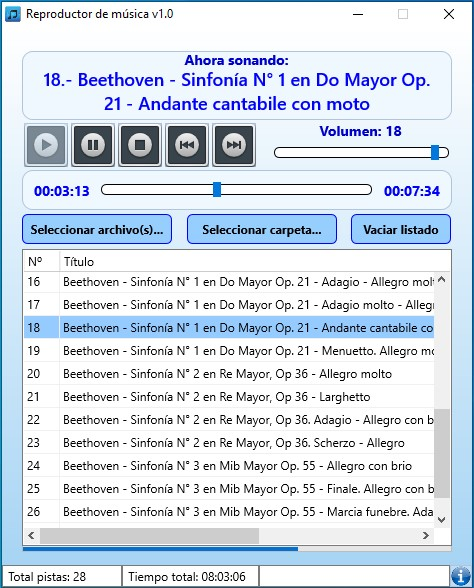
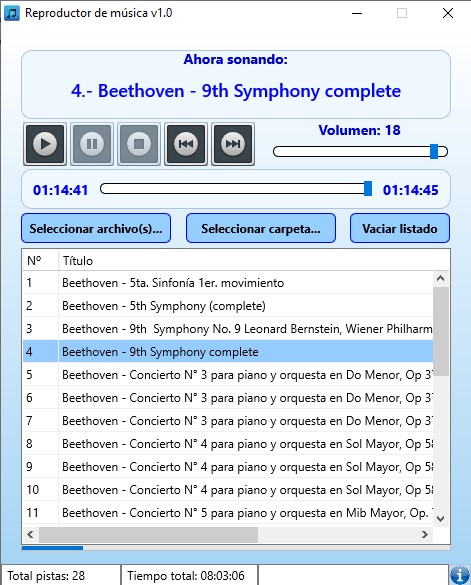
Actualización del README.md y de pantalla_principal.jpg

Changed region(s): [[0.0, 0.0, 1.0, 1.0]]

diff --git a/README.md b/README.md
@@ -45,6 +45,14 @@ Calabozo (Venezuela), julio de 2020.
 
 ---
 
+## Link de descarga de ejecutables
+
+Vienen dos archivos en un comprimido (ReproMusica_XX.rar): ReproMusica.exe y ReproMusica.db
+
+32 bits: https://mega.nz/file/bsUGkKQa#Snlb7AS5jilqaB2dnJ_CkLhI9WGk_UmAz9wMSigdmHU
+
+64 bits: https://mega.nz/file/OxFmVYwY#HKJ2UQtcx_Z34F3WEn5gkwNUNlHrx9452WjlbkPc4eQ
+
 ## Imágenes de la aplicación
 
 ### Icono
